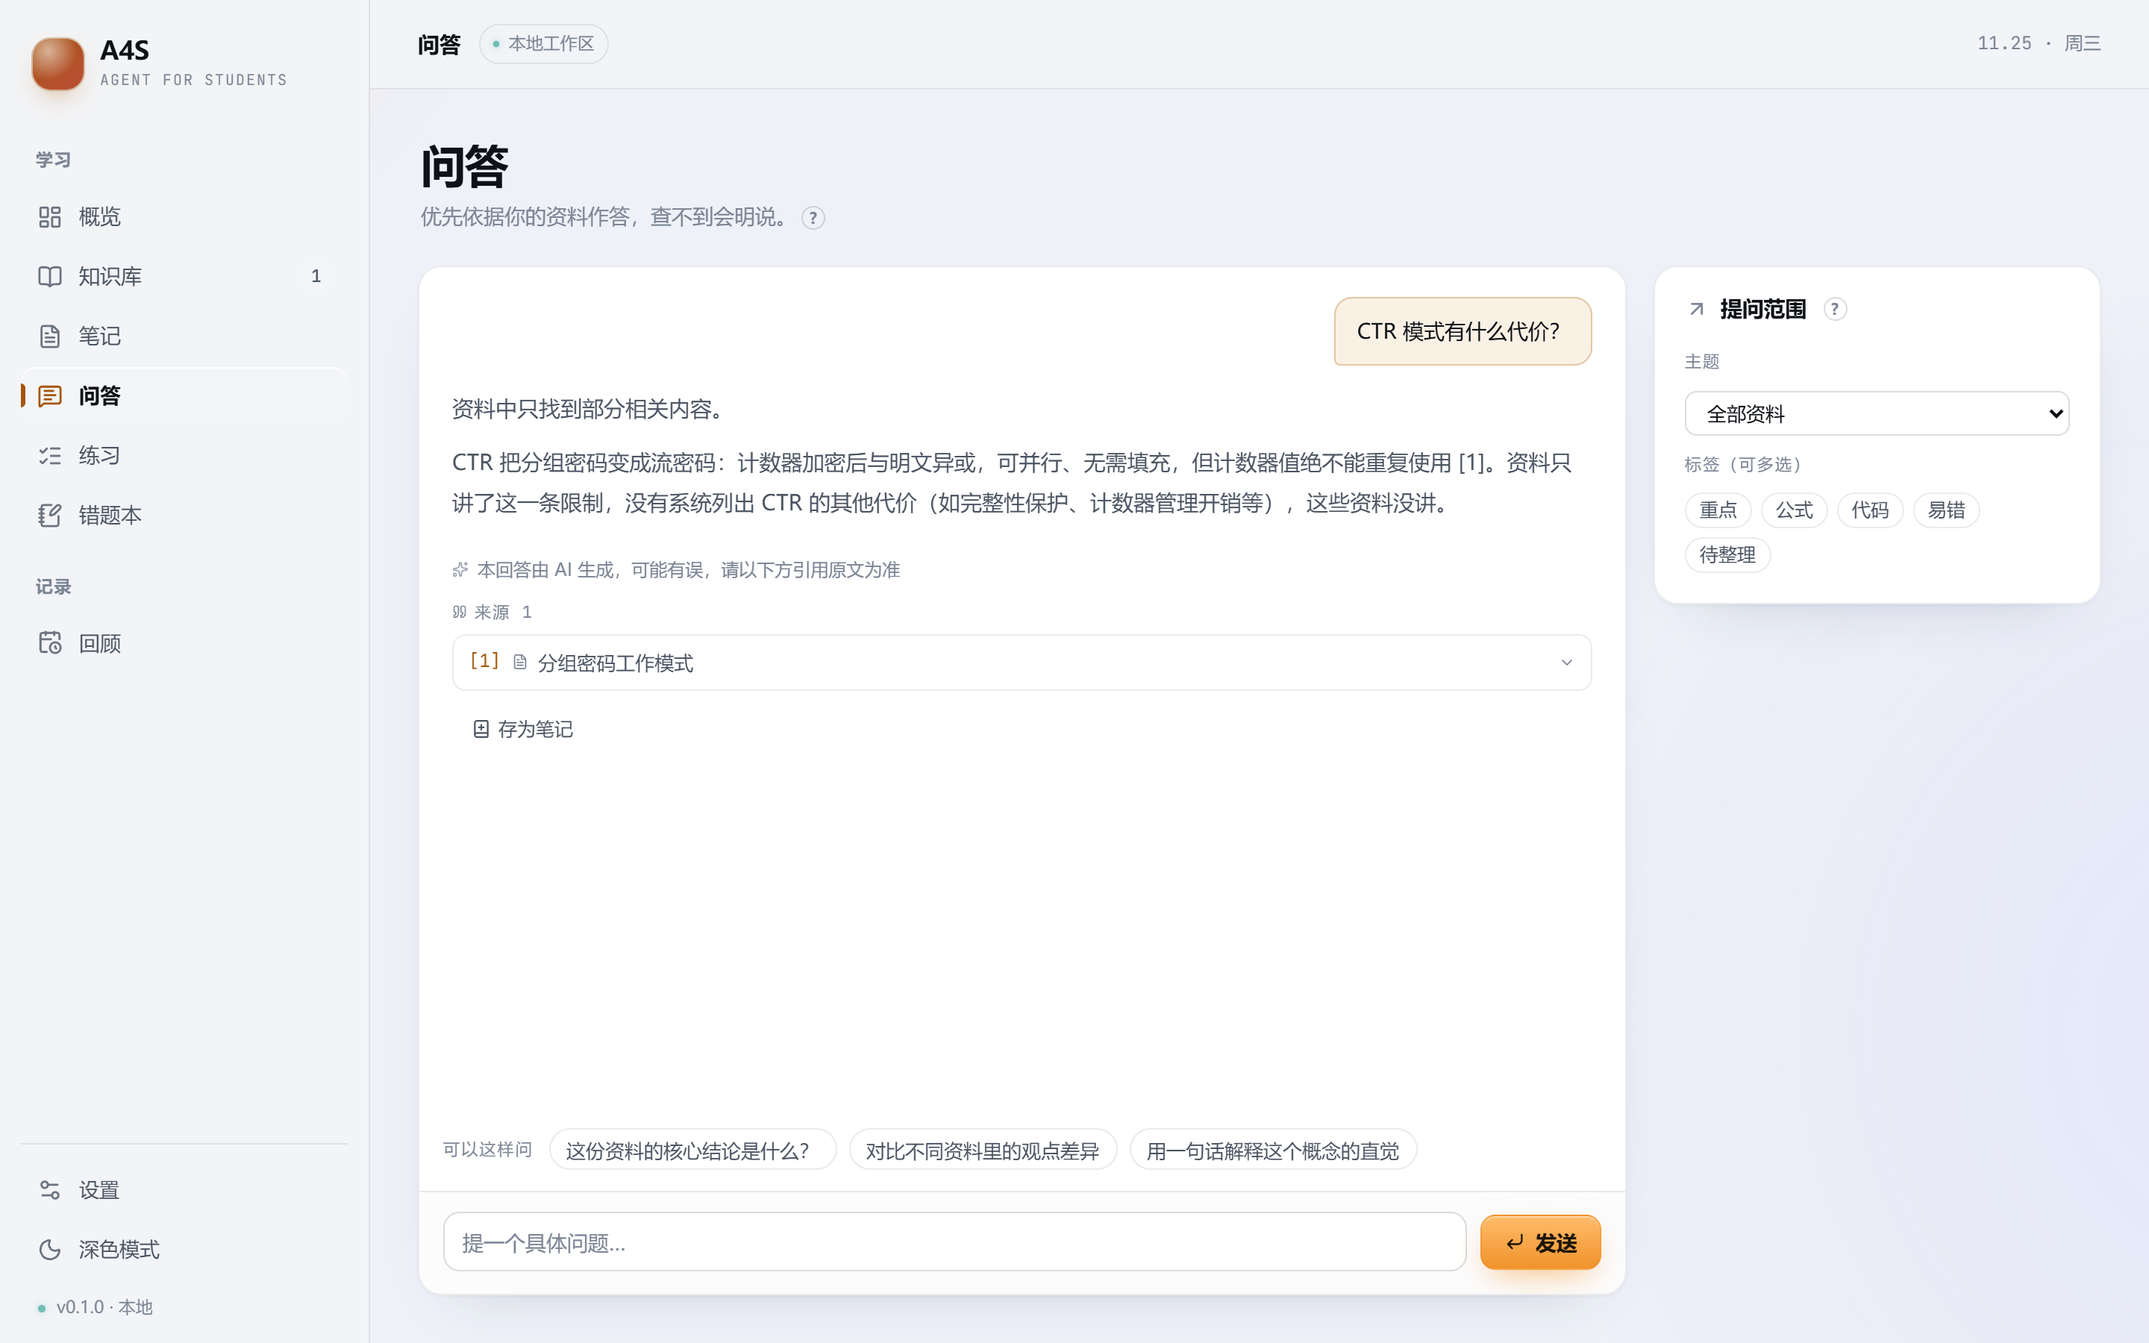
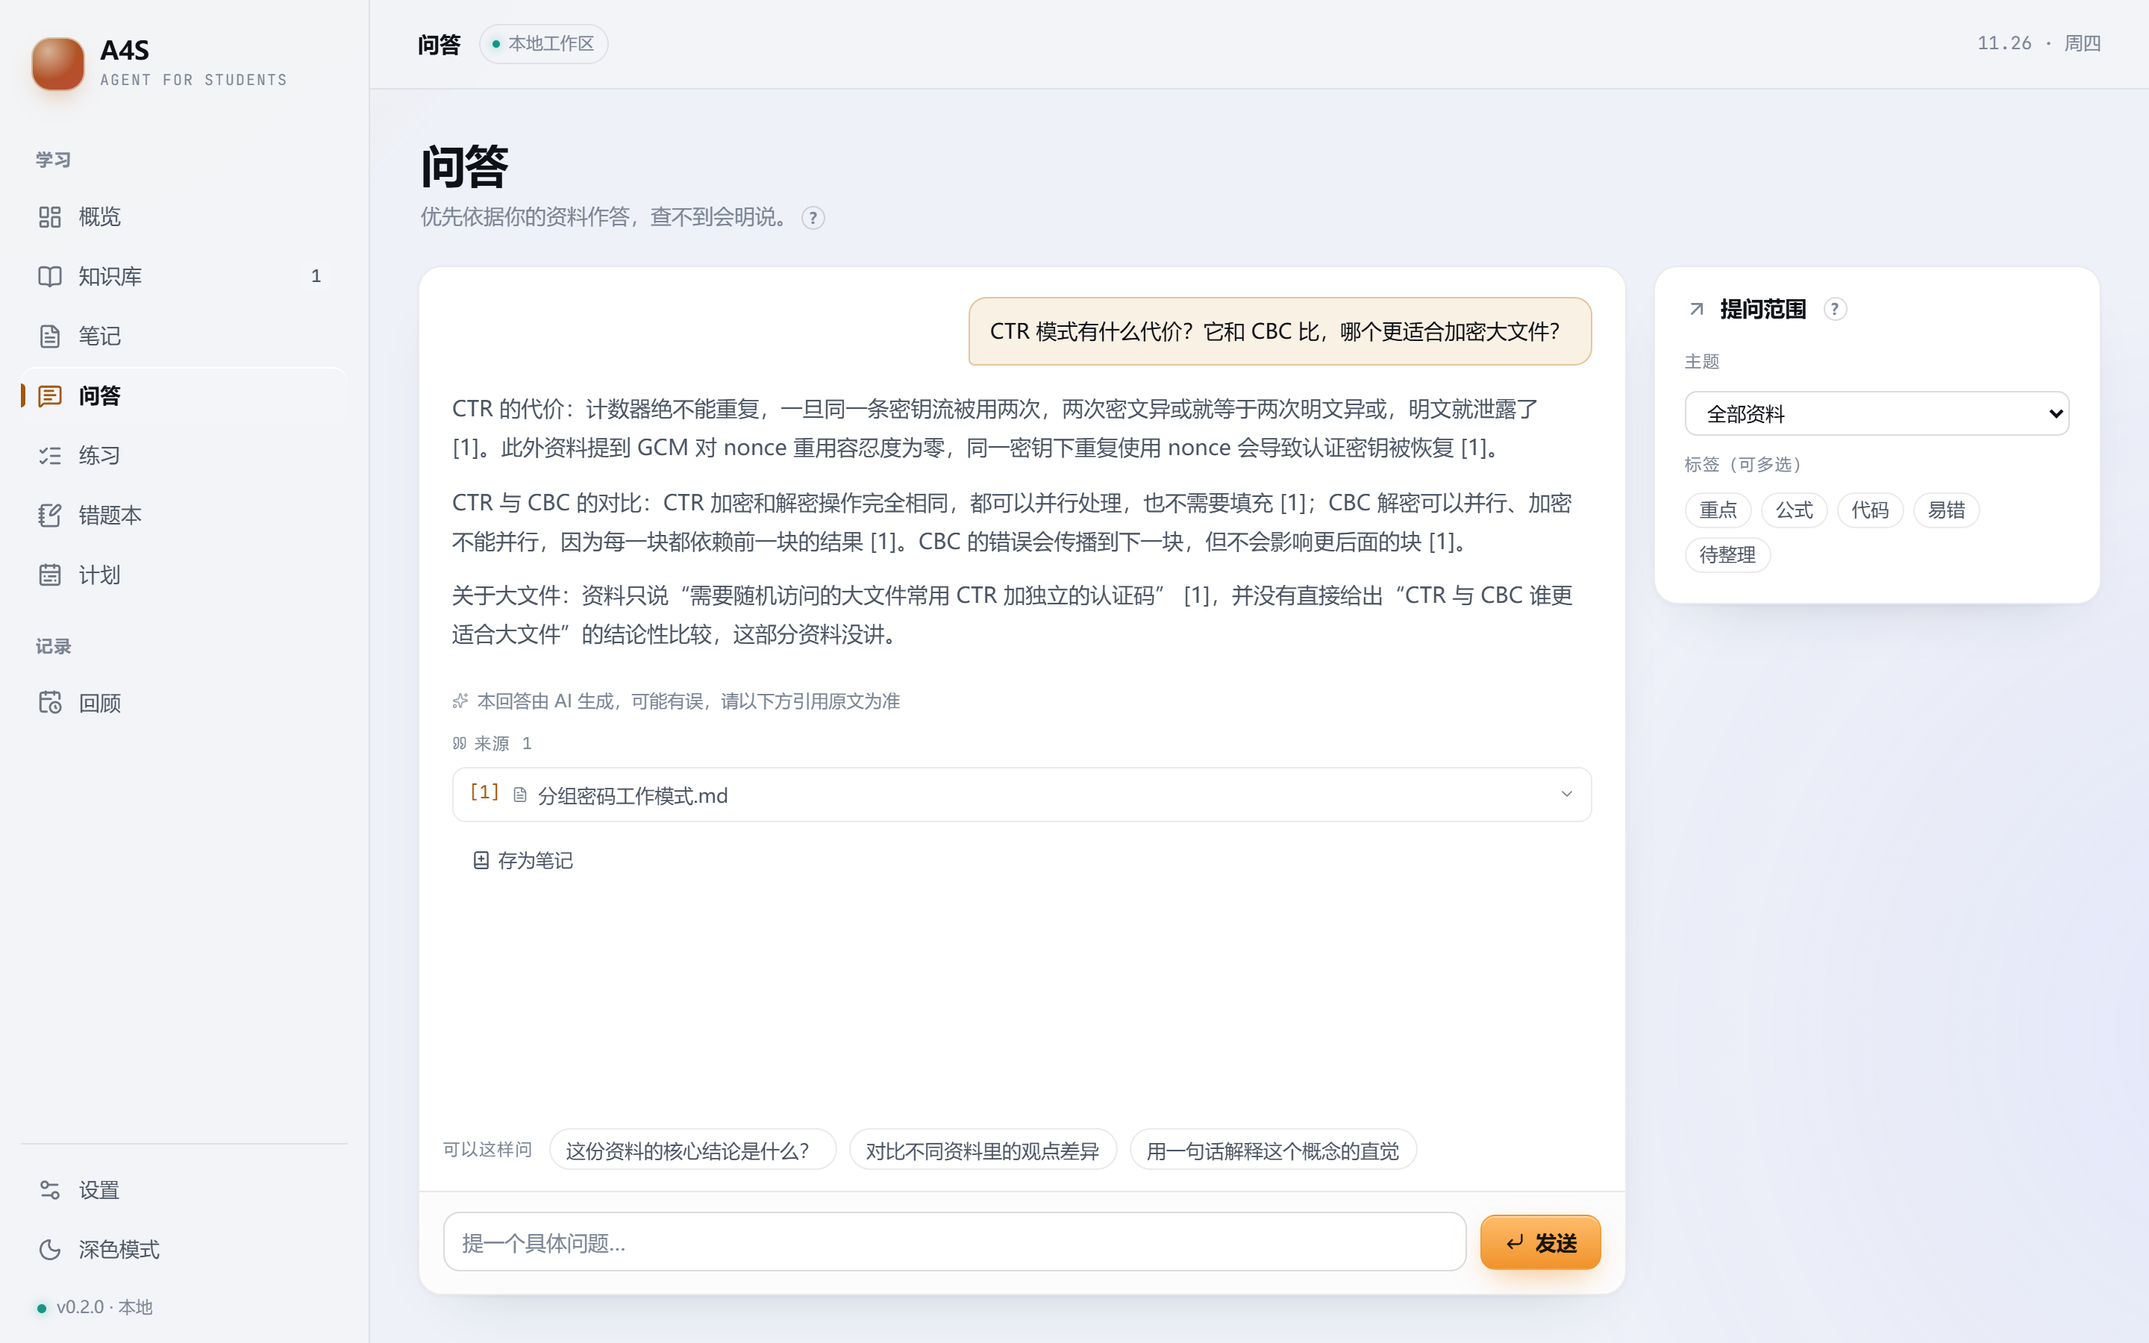
问答：空库说明上移到对话区顶部状态条，不再逐条声明
空库时每条回答前都重复一遍「知识库中还没有资料」，没有新信息，还让每次回答都显得可疑。
库是空的属于页面状态，不逐条重复。

- 前端进页面查 /documents/stats 的 chunks（与后端判据一致），为 0 才在对话卡顶部显示状态条
- 状态条：「知识库中还没有资料 / 回答将由 AI 通用知识生成，不引用任何原文」+「去导入资料」
- 窗口重新获得焦点时重查一次（另开标签页导入资料回来也会消失），路由切回时组件重挂载同样重查
- 逐条声明只保留 no_match（有资料但这次没召回），它是一条回答的结论，必须留在原地
- aiNote 去掉空库专用措辞，统一为「以下内容由 AI 生成，未使用你的资料，请注意甄别」
- 空库时底部「可以这样问」示例换成不依赖资料的问法（SUGGESTIONS_EMPTY）
- 后端未改：仍发 no_context(reason=empty, fallback=true)，只是界面不再逐条渲染
- 重拍 docs/screenshots/03-chat.png（连同侧栏 v0.2.0 一起更新）
- PRD FR-03 规则 5.1/7/9 与变更记录、TASKS（17 项，合计 195/195）、BACKEND_CODE_GUIDE、README 同步

diff --git a/frontend/src/pages/Chat.tsx b/frontend/src/pages/Chat.tsx
@@ -21,6 +21,7 @@ import MarkdownView from '../components/notes/MarkdownView'
 import {
   chatStream,
   createNote,
+  getDocumentStats,
   listChunks,
   listTopics,
   type ChatMessage,
@@ -31,6 +32,8 @@ import {
 import HelpTip from '../components/ui/HelpTip'
 
 const SUGGESTIONS = ['这份资料的核心结论是什么？', '对比不同资料里的观点差异', '用一句话解释这个概念的直觉']
+/** 库是空的时候，上面那三个例子一定检索不到，换成不依赖资料的问法 */
+const SUGGESTIONS_EMPTY = ['帮我讲讲这个概念的直觉', '列一个三步的复习思路', '这个概念常见的误区有哪些？']
 
 interface Turn {
   role: 'user' | 'assistant'
@@ -51,12 +54,10 @@ interface Turn {
  * 每段 AI 回答都要能看出「依据够不够」：
  * - 有来源且正文标了 [n]：正常提示核对原文
  * - 有来源但正文一个引用都没标：说明它是凭记忆写的，风险最高
- * - 压根没有来源：连检索都没命中
+ * - 压根没有来源：连检索都没命中（知识库为空时同样适用，
+ *   但"库是空的"这件事由顶部状态条统一说明，不再逐条重复）
  */
 function aiNote(turn: Turn): string {
-  if (turn.noContext?.reason === 'empty') {
-    return '以上内容由 AI 自动生成，当前知识库中没有资料，未经任何原文核对，请注意甄别'
-  }
   if (!turn.sources?.length) return '以下内容由 AI 生成，未使用你的资料，请注意甄别'
   if (!/\[\d+\]/.test(turn.content)) return '本回答由 AI 生成，且未标注引用，结论未与资料核对'
   return '本回答由 AI 生成，可能有误，请以下方引用原文为准'
@@ -79,6 +80,8 @@ export default function Chat() {
   const [streaming, setStreaming] = useState(false)
   const [openSource, setOpenSource] = useState<string | null>(null)
   const [savingNote, setSavingNote] = useState(false)
+  /** 已入库片段数。null = 还没查出来，不渲染状态条，避免闪一下 */
+  const [kbChunks, setKbChunks] = useState<number | null>(null)
   const bottomRef = useRef<HTMLDivElement>(null)
   const abortRef = useRef<AbortController | null>(null)
 
@@ -89,6 +92,19 @@ export default function Chat() {
         setTags(res.tags)
       })
       .catch(() => undefined)
+  }, [])
+
+  // 知识库状态只在进页面时提示一次，不跟着每条回答重复。
+  // 判据与后端一致：片段数为 0 就是检索必然空，无论是有 0 份资料还是资料还在处理。
+  useEffect(() => {
+    const load = () =>
+      getDocumentStats()
+        .then((s) => setKbChunks(s.chunks))
+        .catch(() => undefined)
+    load()
+    // 去知识库导入完再切回来，状态条要自己消失
+    window.addEventListener('focus', load)
+    return () => window.removeEventListener('focus', load)
   }, [])
 
   // 新消息或流式增量时贴底；用户往上翻就不打扰
@@ -191,6 +207,7 @@ export default function Chat() {
     setRangeTags((prev) => (prev.includes(id) ? prev.filter((t) => t !== id) : [...prev, id]))
 
   const hasMessages = messages.length > 0
+  const kbEmpty = kbChunks === 0
 
   return (
     <section className="page">
@@ -202,7 +219,7 @@ export default function Chat() {
             <HelpTip label="了解问答的依据">
               回答前先检索相关片段（最相关的 5 个，相似度 0.42 以上），正文角标可点开看原文。
               检索不到时不会拿无关片段硬答：先声明"没有找到相关资料"，再改用模型自己的通用知识回答，
-              这段回答下方会标明"未使用你的资料"。知识库为空时同样可以提问，声明会写成"知识库中还没有资料"。
+              这段回答下方会标明"未使用你的资料"。知识库为空时也能提问，顶部会提示一次，回答同样按通用知识生成。
               有资料依据的回答也会标注引用情况。
             </HelpTip>
           </p>
@@ -211,6 +228,24 @@ export default function Chat() {
 
       <div className="workbench">
         <div className="card chat-panel">
+          {kbEmpty && (
+            <div className="chat-kb">
+              <FileText size={14} />
+              <div className="chat-kb-body">
+                <p className="chat-kb-title">知识库中还没有资料</p>
+                <p className="chat-kb-detail">回答将由 AI 通用知识生成，不引用任何原文。</p>
+              </div>
+              <Button
+                size="sm"
+                variant="ghost"
+                icon={<Upload size={13} />}
+                onClick={() => navigate('/library')}
+              >
+                去导入资料
+              </Button>
+            </div>
+          )}
+
           <div className="thread">
             {!hasMessages && (
               <div className="thread-empty">
@@ -228,40 +263,23 @@ export default function Chat() {
                   <p className="chat-q">{m.content}</p>
                 ) : (
                   <div className="chat-a">
-                    {m.noContext && (
-                      <div className={`chat-empty is-${m.noContext.reason}`}>
+                    {/* 空库的说明已上移到顶部状态条，这里只处理「这次提问没命中」 */}
+                    {m.noContext?.reason === 'no_match' && (
+                      <div className="chat-empty is-no_match">
                         <p className="chat-empty-title">
-                          {m.noContext.reason === 'empty' ? (
-                            <FileText size={14} />
-                          ) : (
-                            <SearchX size={14} />
-                          )}
-                          {m.noContext.reason === 'empty'
-                            ? '知识库中还没有资料'
-                            : '知识库中没有找到相关资料'}
+                          <SearchX size={14} />
+                          知识库中没有找到相关资料
                         </p>
                         <p className="chat-empty-detail">{m.noContext.detail}</p>
-                        {m.noContext.reason === 'empty' ? (
+                        {m.noContext.scoped && m.asked && (
                           <Button
                             size="sm"
                             variant="ghost"
-                            icon={<Upload size={13} />}
-                            onClick={() => navigate('/library')}
+                            icon={<RotateCcw size={13} />}
+                            onClick={() => send(m.asked, { noRange: true })}
                           >
-                            去导入资料
+                            不限范围再问一次
                           </Button>
-                        ) : (
-                          m.noContext.scoped &&
-                          m.asked && (
-                            <Button
-                              size="sm"
-                              variant="ghost"
-                              icon={<RotateCcw size={13} />}
-                              onClick={() => send(m.asked, { noRange: true })}
-                            >
-                              不限范围再问一次
-                            </Button>
-                          )
                         )}
                       </div>
                     )}
@@ -345,7 +363,7 @@ export default function Chat() {
 
           <div className="followups">
             <span className="followups-label">可以这样问</span>
-            {SUGGESTIONS.map((s) => (
+            {(kbEmpty ? SUGGESTIONS_EMPTY : SUGGESTIONS).map((s) => (
               <button key={s} className="chip" disabled={streaming} onClick={() => send(s)}>
                 {s}
               </button>

diff --git a/frontend/src/styles/pages.css b/frontend/src/styles/pages.css
@@ -2025,6 +2025,43 @@
   color: var(--rose-ink, var(--ink-2));
 }
 
+/* 知识库为空：进页面在对话区顶部说明一次，不跟着每条回答重复 */
+.chat-kb {
+  display: flex;
+  align-items: center;
+  gap: 10px;
+  padding: 11px 16px;
+  border-bottom: 1px solid var(--amber-line, var(--line));
+  background: var(--amber-soft);
+}
+
+.chat-kb > svg {
+  color: var(--amber);
+  flex: none;
+}
+
+.chat-kb-body {
+  flex: 1;
+  min-width: 0;
+  display: flex;
+  flex-direction: column;
+  gap: 1px;
+}
+
+.chat-kb-title {
+  margin: 0;
+  font-size: 13.5px;
+  font-weight: 620;
+  color: var(--ink);
+}
+
+.chat-kb-detail {
+  margin: 0;
+  font-size: 12.5px;
+  line-height: 1.55;
+  color: var(--ink-3);
+}
+
 /* 检索没命中：不是错误，是一条结论，所以用面板而不是红色提示 */
 .chat-empty {
   display: flex;
@@ -2035,10 +2072,6 @@
   border-radius: var(--radius);
   border: 1px solid var(--line);
   background: var(--surface-2);
-}
-
-.chat-empty.is-empty {
-  border-style: dashed;
 }
 
 .chat-empty-title {

diff --git a/frontend/src/api/client.ts b/frontend/src/api/client.ts
@@ -270,7 +270,7 @@ export interface ChatRange {
 
 /**
  * 检索不到内容时后端发来的说明。
- * empty  知识库里还没有任何片段 → 引导去导入
+ * empty    知识库里还没有任何片段 → 界面在对话区顶部统一提示一次，不逐条渲染
  * no_match 有片段但都不相关（或超出当前范围）→ 引导换说法 / 放宽范围
  */
 export interface NoContextInfo {

diff --git a/docs/TASKS.md b/docs/TASKS.md
@@ -4,7 +4,7 @@
 > 图例：`[ ]` 未开始 · `[~]` 进行中 · `[x]` 已完成
 >
 > **当前状态（2026-11-26）**：v0.1 全部完成 145/145，PRD 第 10 章 13 条 P0 已逐条置为「通过」；
-> v0.2 追加的 M7 学习计划 Agent 33 项、空库问答 10 项亦已完成（合计 188/188）。
+> v0.2 追加的 M7 学习计划 Agent 33 项、空库问答 17 项亦已完成（合计 195/195）。
 > 审核导航见 `docs/AUDIT_GUIDE.md`；测试脚本见 `backend/scripts/smoke_m*.py`。
 
 ---
@@ -383,7 +383,15 @@
 - [x] 等待态文案区分两种：「正在检索资料…」/「正在用通用知识回答…」
 - [x] 顺手修正两处过时文案：范围卡里「相似度 ≥ 0.3」→ 0.42；删掉「资料里没有的会直接说未提及」
 - [x] `smoke_m3.py` 补 6 项断言（空库仍作答、以 done 收尾、不返回来源、提示词不含来源块），31/31 通过
-- [x] 浏览器实测：空库提问 → 声明块 + 完整回答 + 底部标注，正文无 `[n]` 角标，无 JS 报错与横向溢出
+- [x] 浏览器实测：空库提问 → 完整回答 + 底部标注，正文无 `[n]` 角标，无 JS 报错与横向溢出
+- [x] **空库声明上移**：不再逐条渲染声明块，改为对话区顶部状态条（`chat-kb`）——
+      进页面查 `/documents/stats` 的 `chunks`（与后端判据一致），为 0 才显示
+- [x] 状态条内容：「知识库中还没有资料 / 回答将由 AI 通用知识生成，不引用任何原文」+「去导入资料」
+- [x] 窗口重新获得焦点时重查一次，导入资料后状态条自动消失
+- [x] `aiNote()` 去掉空库专用措辞，统一为「以下内容由 AI 生成，未使用你的资料，请注意甄别」
+- [x] 空库时底部「可以这样问」示例换成不依赖资料的问法（`SUGGESTIONS_EMPTY`）
+- [x] 保留 `no_match` 的逐条声明块与「不限范围再问一次」——那是一条回答的结论，必须留在原地
+- [x] 浏览器实测：空库两轮提问 → 顶部状态条 1 条、逐条声明 0 条；有资料时不相关问题 → 状态条消失、声明块出现
 
 ---
 
@@ -466,5 +474,5 @@
 | M5 回顾 | 11 | 11 | 已完成 |
 | M6 收尾 | 9 | 9 | 已完成 |
 | M7 学习计划 Agent | 33 | 33 | 已完成 |
-| v0.2 追加：空库问答 | 10 | 10 | 已完成 |
-| **合计** | **188** | **188** | 100% |
+| v0.2 追加：空库问答 | 17 | 17 | 已完成 |
+| **合计** | **195** | **195** | 100% |

diff --git a/docs/BACKEND_CODE_GUIDE.md b/docs/BACKEND_CODE_GUIDE.md
@@ -364,6 +364,23 @@
 - [x] 空库不进兜底分支，仍只提示去导入（`reason=empty`）
 - [x] 验证：curl 实测未命中→完整作答且无角标、空库→仅声明、`smoke_m3` 25/25、tsc 与 build 通过
 
+### 追加：空库也能问答，声明上移
+
+> 上面两条（"声明必须在回答之前""空库不进兜底分支"）已被本节修订取代：空库现在既作答、
+> 也不再逐条声明。历史记录保留原样，以本节为准。
+
+- [x] 空库从"配置状态"改回"未命中的一种"：`no_context(reason=empty, fallback=true)` 之后继续走
+      `build_ungrounded_messages`，与 `no_match` 共用同一条兜底链路
+- [x] Key 检查前移到空库判断之前——空库也要调模型，没 Key 连兜底答案都给不了
+- [x] 前端 `onNoContext` 按 `fallback` 决定是否置 `done`，AI 标注等正文写完再出现，不会跟着打字闪
+- [x] 空库声明不逐条重复：改为对话区顶部状态条（`chat-kb`）。进页面查 `/documents/stats` 的 `chunks`
+      （与后端判据一致），为 0 才显示；窗口重新获得焦点时重查，导入资料后自动消失
+- [x] `no_match` 的逐条声明块保留——那是一轮对话的结论；`aiNote` 的空库专用措辞删除，统一为
+      "以下内容由 AI 生成，未使用你的资料，请注意甄别"
+- [x] 空库时底部"可以这样问"示例换成不依赖资料的问法（`SUGGESTIONS_EMPTY`）
+- [x] 验证：空库两轮提问 → 顶部状态条 1 条、逐条声明 0 条；有资料时不相关问题 → 状态条消失、
+      声明块出现；1440 视口无溢出、无 JS 报错
+
 ---
 
 ## M7 — 学习计划 Agent（v0.2 首个里程碑）

diff --git a/README.md b/README.md
@@ -21,7 +21,7 @@
 |---|---|
 | **资料入库** | PDF / Word / Markdown / 纯文本；必选主题；网页正文抓取；失败会给出具体原因 |
 | **检索与问答** | 向量 + 全文双路召回，回答带来源角标，可点开原文片段；检索不到时不拿无关片段硬答，
-先声明"没有找到相关资料"，再用通用知识补一个回答，并标明"未使用你的资料"；知识库为空时也能提问，声明写成"当前知识库中没有资料"；
+先声明"没有找到相关资料"，再用通用知识补一个回答，并标明"未使用你的资料"；知识库为空时也能提问，顶部一条状态条说明一次（不逐条重复）；
 每段回答下方常显 AI 生成声明，标出关联了几个片段、有没有标注引用 |
 | **电子笔记** | 从检索结果起草，模板固定结构（提纲 / 概念 / 代码 / 公式），草稿→定稿两态，AI 补写有标记 |
 | **检测题** | 单选 / 多选 / 判断 / 简答四种题型，按主题或按资料出题，每题附解析与来源 |
